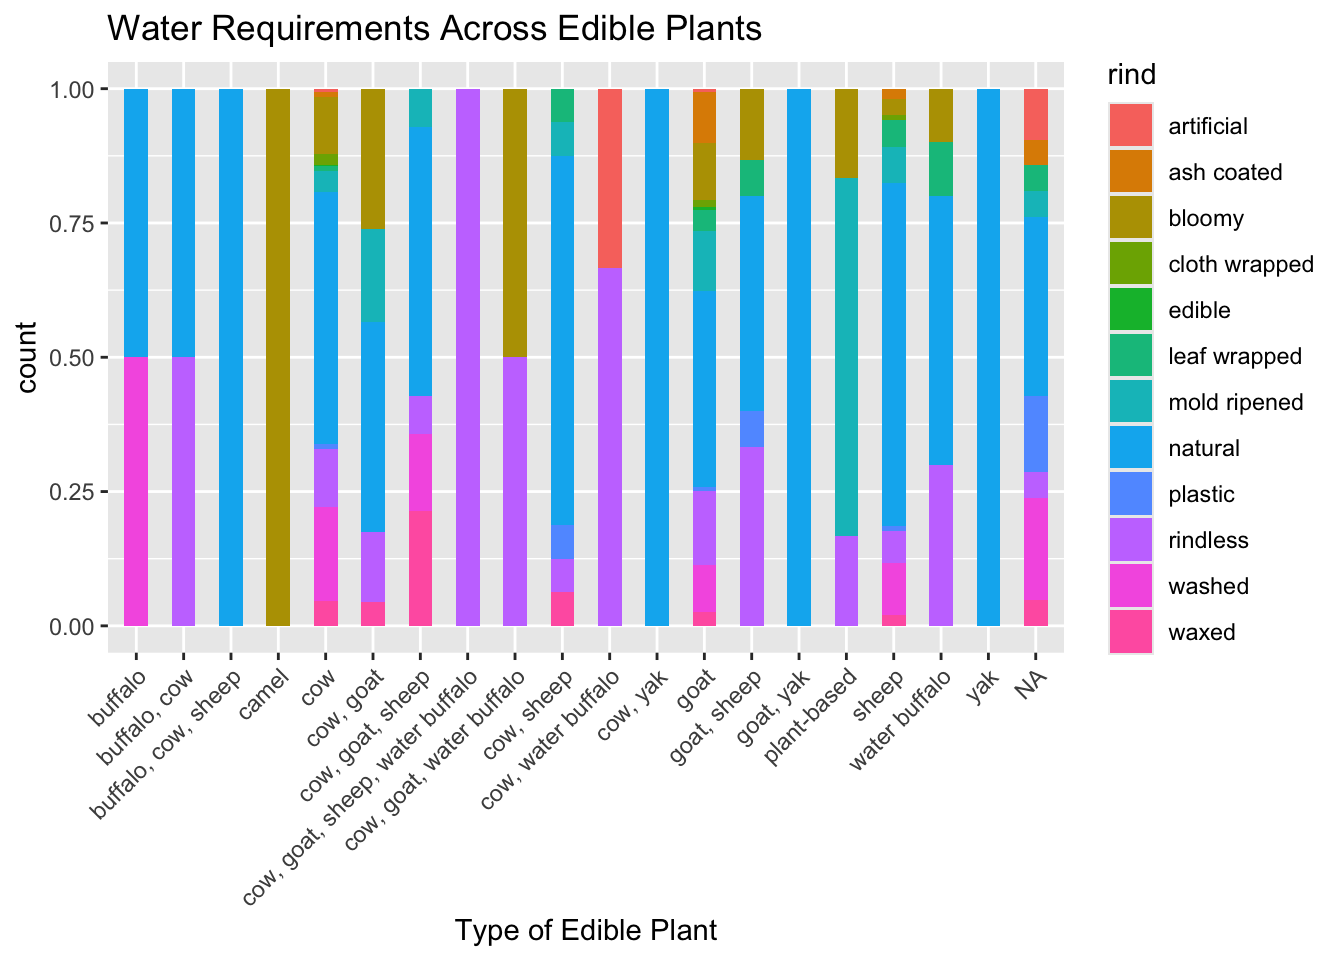
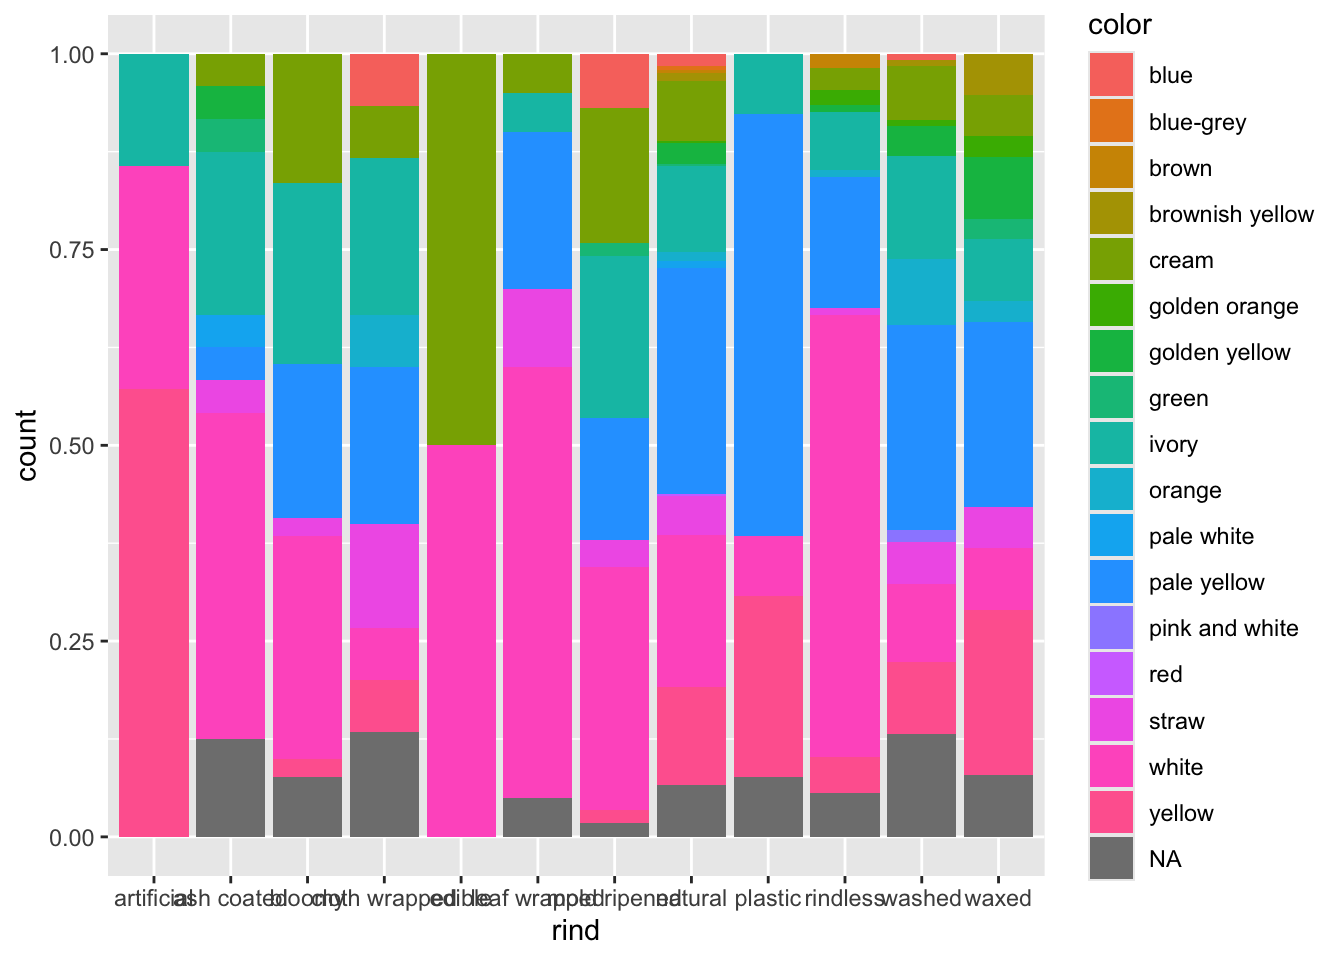
more tidy analysis for cheese data

diff --git a/Cheese.html b/Cheese.html
@@ -352,16 +352,13 @@ pre > code.sourceCode > span > a:first-child::before { text-decoration: underlin
 <span id="cb2-2"><a href="#cb2-2" aria-hidden="true" tabindex="-1"></a><span class="fu">library</span>(dplyr)</span>
 <span id="cb2-3"><a href="#cb2-3" aria-hidden="true" tabindex="-1"></a></span>
 <span id="cb2-4"><a href="#cb2-4" aria-hidden="true" tabindex="-1"></a>cheeses2 <span class="ot">&lt;-</span> cheeses <span class="sc">|&gt;</span></span>
-<span id="cb2-5"><a href="#cb2-5" aria-hidden="true" tabindex="-1"></a>    <span class="fu">filter</span>(<span class="sc">!</span><span class="fu">is.na</span>(rind))</span>
-<span id="cb2-6"><a href="#cb2-6" aria-hidden="true" tabindex="-1"></a></span>
-<span id="cb2-7"><a href="#cb2-7" aria-hidden="true" tabindex="-1"></a></span>
-<span id="cb2-8"><a href="#cb2-8" aria-hidden="true" tabindex="-1"></a><span class="fu">ggplot</span>(cheeses2, <span class="fu">aes</span>(<span class="at">x =</span> milk)) <span class="sc">+</span> </span>
-<span id="cb2-9"><a href="#cb2-9" aria-hidden="true" tabindex="-1"></a>  <span class="fu">geom_bar</span>(<span class="at">position =</span> <span class="st">"fill"</span>, <span class="fu">aes</span>(<span class="at">fill =</span> rind), <span class="at">width =</span> <span class="fl">0.5</span>, <span class="at">na.rm =</span> <span class="cn">TRUE</span>) <span class="sc">+</span> </span>
-<span id="cb2-10"><a href="#cb2-10" aria-hidden="true" tabindex="-1"></a>  <span class="fu">theme</span>(<span class="at">axis.text.x =</span> <span class="fu">element_text</span>(<span class="at">angle =</span> <span class="dv">45</span>, <span class="at">hjust =</span> <span class="dv">1</span>)) <span class="sc">+</span></span>
-<span id="cb2-11"><a href="#cb2-11" aria-hidden="true" tabindex="-1"></a>  <span class="fu">labs</span>(</span>
-<span id="cb2-12"><a href="#cb2-12" aria-hidden="true" tabindex="-1"></a>    <span class="at">title =</span> <span class="st">"Water Requirements Across Edible Plants"</span>,</span>
-<span id="cb2-13"><a href="#cb2-13" aria-hidden="true" tabindex="-1"></a>    <span class="at">x =</span> <span class="st">"Type of Edible Plant"</span></span>
-<span id="cb2-14"><a href="#cb2-14" aria-hidden="true" tabindex="-1"></a>  )</span></code></pre></div><button title="Copy to Clipboard" class="code-copy-button"><i class="bi"></i></button></div>
+<span id="cb2-5"><a href="#cb2-5" aria-hidden="true" tabindex="-1"></a>    <span class="fu">filter</span>(<span class="sc">!</span><span class="fu">is.na</span>(rind)) <span class="sc">|&gt;</span></span>
+<span id="cb2-6"><a href="#cb2-6" aria-hidden="true" tabindex="-1"></a>    <span class="fu">group_by</span>(rind) <span class="sc">|&gt;</span></span>
+<span id="cb2-7"><a href="#cb2-7" aria-hidden="true" tabindex="-1"></a>    <span class="fu">mutate</span>(<span class="at">num_cheeses =</span> <span class="fu">n</span>())</span>
+<span id="cb2-8"><a href="#cb2-8" aria-hidden="true" tabindex="-1"></a></span>
+<span id="cb2-9"><a href="#cb2-9" aria-hidden="true" tabindex="-1"></a></span>
+<span id="cb2-10"><a href="#cb2-10" aria-hidden="true" tabindex="-1"></a><span class="fu">ggplot</span>(cheeses2, <span class="fu">aes</span>(<span class="at">x =</span> rind, <span class="at">fill =</span> color)) <span class="sc">+</span> </span>
+<span id="cb2-11"><a href="#cb2-11" aria-hidden="true" tabindex="-1"></a>    <span class="fu">geom_bar</span>(<span class="at">position =</span> <span class="st">"fill"</span>)</span></code></pre></div><button title="Copy to Clipboard" class="code-copy-button"><i class="bi"></i></button></div>
 </details>
 <div class="cell-output-display">
 <div>
